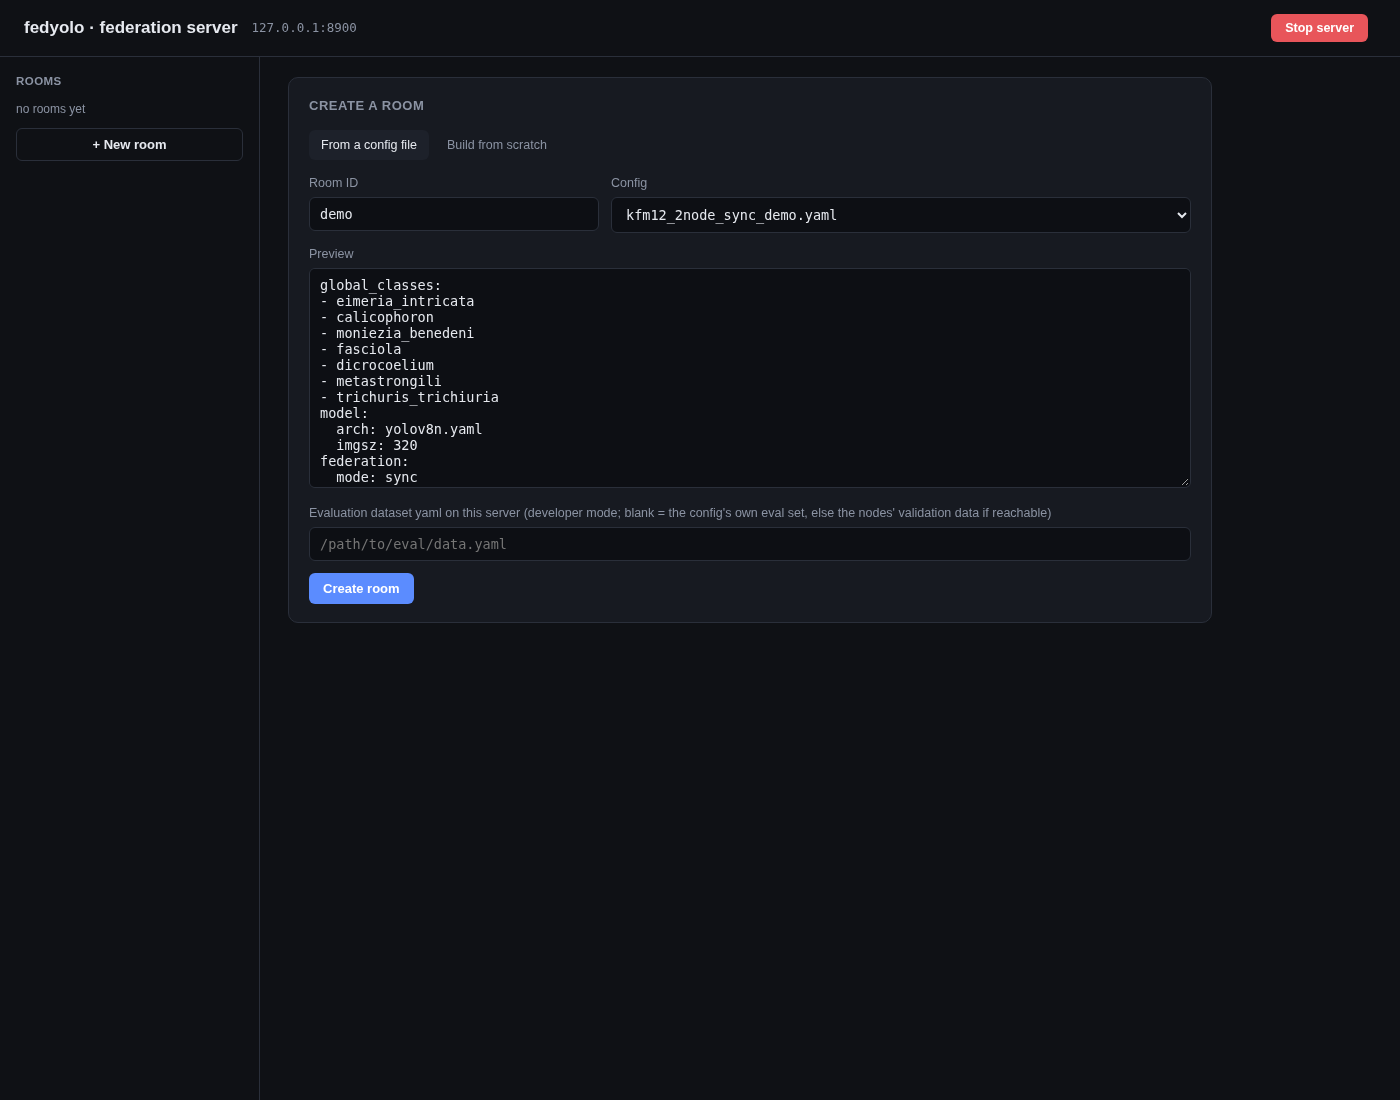
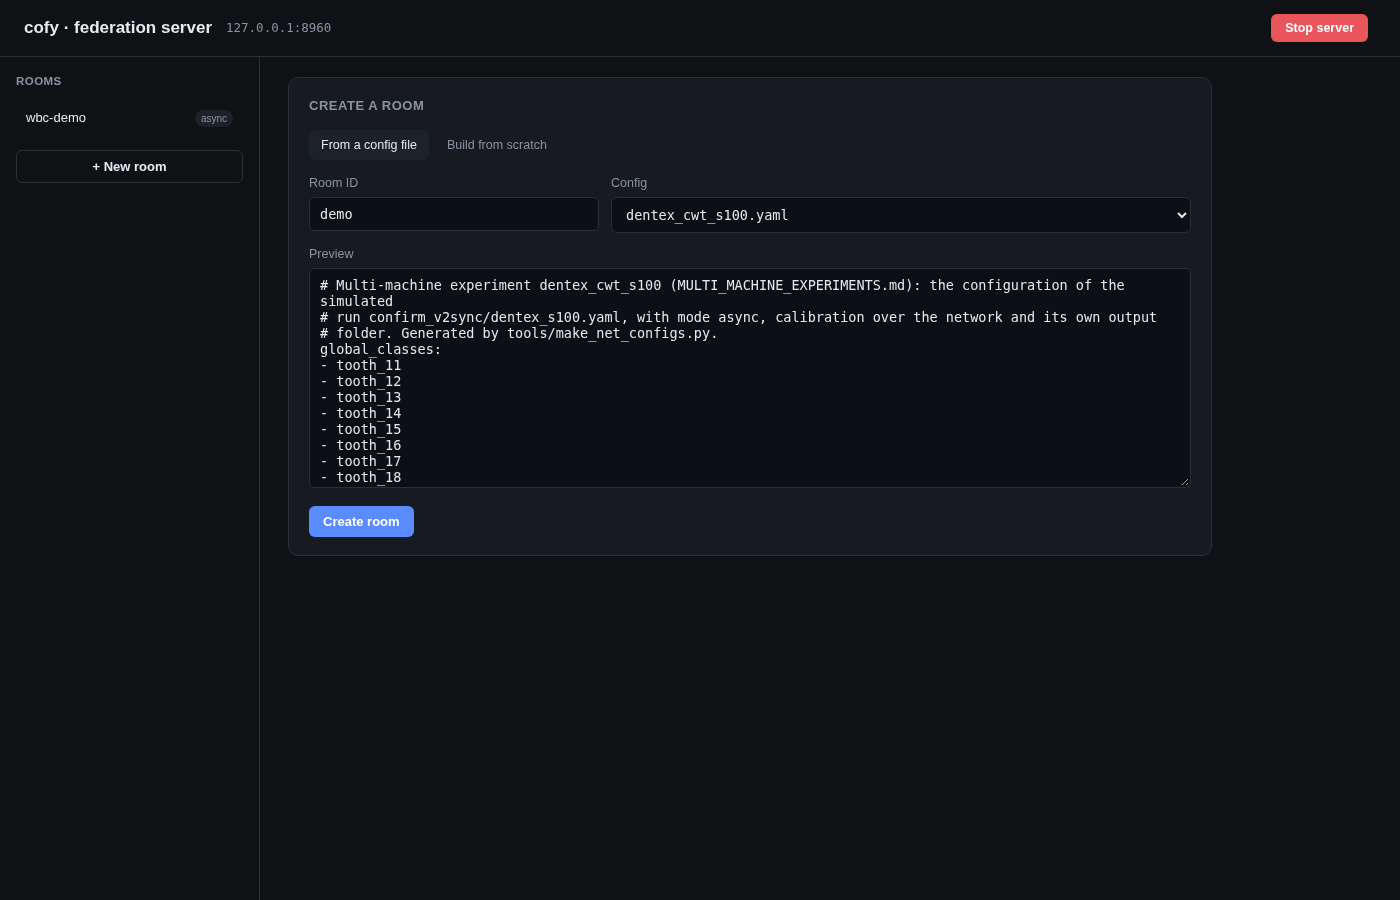
Readme Update

diff --git a/cofy_system/tools/make_resilience_figure.py b/cofy_system/tools/make_resilience_figure.py
@@ -1,0 +1,121 @@
+#!/usr/bin/env python3
+"""Figure for the README (docs/img/resisted_attacks.png): attacks on a WBC evaluation image, with the
+ground truth, the federation under attack and the same federation with the defence that resisted it.
+Only attacks that a defence resisted on this image are shown. The sign flip is not: peer validation (P3)
+rolls back the attacker's class, but the frozen rows fire again as the shared layers change, and on this
+image the class still fills the detection budget.
+Kept final models of the robustness study and its candidate defences; seed 0 (attacker node A, which
+owns neutrophil) unless stated:
+
+  BatchNorm poisoning  the concurrent seed that collapsed (seed 2, attacker node C), final model before
+                       calibration  vs  the BatchNorm step of the calibration with median pooling, the
+                       attacker also poisoning its statistics (P1; detections from attacks_cache.json);
+  backdoor             the backdoored federation (rb_seq_backdoor_ora) on the image with the trigger  vs
+                       the same detections after input screening at node B (P2, Detector Cleanse, the
+                       study's stored threshold for this model and seed): flagged detections are removed.
+
+The image is the one of the paper's attack figure (tools/make_attack_figure.py). CPU is enough.
+
+    CUDA_VISIBLE_DEVICES= python tools/make_resilience_figure.py
+"""
+import json, random, sys
+from pathlib import Path
+
+ROOT = Path(__file__).resolve().parent.parent
+sys.path.insert(0, str(ROOT)); sys.path.insert(0, str(ROOT / "tools"))
+OUT = ROOT / "docs/img/resisted_attacks.png"
+GREEN = "#2e8b57"
+
+
+def main():
+    import matplotlib
+    matplotlib.use("Agg")
+    import matplotlib.pyplot as plt
+    from matplotlib.patches import Rectangle
+    from PIL import Image
+    import torch
+    import make_attack_figure as maf
+    import defence_eval as de
+
+    torch.set_num_threads(6)
+    cache = json.loads(maf.CACHE.read_text())
+    classes = cache["classes"]
+    ev_img = ROOT / "data/study/wbc/_eval/images/val" / cache["eval"]
+    trig_img = ROOT / "data/attack/wbc/_eval_trigger_node_A/images" / cache["eval"]
+    gt = cache["gt"]
+    own_A = set(cache["own_A"])
+
+
+    # P2 screening at node B on the backdoored model's detections, as tools/defence_eval.py does it
+    bd = maf.Model("rb_seq_backdoor_ora", 0)
+    det_bd = bd.detect(trig_img)
+    stored = json.loads((ROOT / "runs/variants/p2_cleanse/wbc/s0/summary.json").read_text())["cleanse"]["rb_seq_backdoor_ora"]
+    scr = next(n for n in bd.cfg.nodes if n.name == stored["screening_node"])
+    scr_own = {classes.index(c) for c in scr.owned_classes}
+    rng = random.Random(1000 + 0)
+    sc = de.Screen(bd.model, bd.cfg.nc, de._crops(scr, de.N_FEAT, rng), bd.dev)
+    img, r, left, top = de._letterbox(trig_img, bd.cfg.model.imgsz)
+    screened = []
+    for c, cf, x1, y1, x2, y2 in det_bd:
+        box = [x1 * r + left, y1 * r + top, x2 * r + left, y2 * r + top]
+        h = None if c in scr_own else sc.entropy(img, torch.tensor(box))
+        screened.append((c, cf, x1, y1, x2, y2, h is not None and h < stored["threshold"], h))
+    bd.release()
+
+    plt.rcParams.update({"font.family": "DejaVu Sans", "font.size": 7, "axes.linewidth": 0})
+    rows = [
+        ("BatchNorm poisoning: node C corrupts the statistics", ev_img,
+         ("final model before calibration", cache["det"]["bnpoison"], set(cache["own_bn"])),
+         ("+ calibration, median of the nodes'\nstatistics (node C poisons its own)", cache["det"]["recalibrated"], set(cache["own_bn"]))),
+        ("Backdoor: node A labels a trigger as neutrophil", trig_img,
+         ("backdoored federation", det_bd, own_A),
+         ("+ input screening at node B:\nflagged detections removed", [d[:6] for d in screened if not d[6]], own_A)),
+    ]
+    fig, axes = plt.subplots(2, 3, figsize=(6.6, 5.0))
+    fig.subplots_adjust(left=0.01, right=0.99, top=0.92, bottom=0.09, wspace=0.04, hspace=0.38)
+    win = maf.crop_window(ev_img, [])
+
+    def show(ax, path, title):
+        ax.imshow(Image.open(path).convert("RGB"))
+        x0, y0, s = win
+        ax.set_xlim(x0, x0 + s); ax.set_ylim(y0 + s, y0)
+        ax.set_xticks([]); ax.set_yticks([])
+        ax.set_title(title, fontsize=7, loc="left", pad=3, color=maf.INK)
+
+    def draw(ax, ds, own):
+        labelled = []
+        for c, cf, *b in sorted(ds, key=lambda d: -d[1]):
+            col = maf.RED if c in own else maf.BLUE
+            big = len(ds) <= 20
+            ax.add_patch(Rectangle((b[0], b[1]), b[2] - b[0], b[3] - b[1], fill=False, ec=col, lw=1.4 if big else 0.5))
+            if big and not any(maf.iou(b, o) > 0.5 for o in labelled):
+                labelled.append(b)
+                ax.text((b[0] + b[2]) / 2, b[1] - 3, f"{classes[c]} {cf:.2f}", fontsize=6, ha="center", va="bottom", color=maf.INK,
+                        bbox=dict(boxstyle="round,pad=0.15", fc="white", ec=col, lw=0.6, alpha=0.9))
+        if not ds:
+            ax.text(0.5, 0.05, "no detection", transform=ax.transAxes, ha="center", fontsize=6.5,
+                    bbox=dict(boxstyle="round,pad=0.2", fc="white", ec="none", alpha=0.9))
+
+    for i, (name, img_path, (t1, d1, o1), (t2, d2, o2)) in enumerate(rows):
+        ax = axes[i, 0]; show(ax, img_path, "ground truth")
+        for c, *b in gt:
+            ax.add_patch(Rectangle((b[0], b[1]), b[2] - b[0], b[3] - b[1], fill=False, ec=GREEN, lw=1.4, ls=(0, (3, 2))))
+            ax.text((b[0] + b[2]) / 2, b[1] - 3, classes[c], fontsize=6, ha="center", va="bottom", color=maf.INK,
+                    bbox=dict(boxstyle="round,pad=0.15", fc="white", ec=GREEN, lw=0.6, alpha=0.9))
+        ax = axes[i, 1]; show(ax, img_path, t1); draw(ax, d1, o1)
+        ax = axes[i, 2]; show(ax, img_path, t2); draw(ax, d2, o2)
+        fig.text(0.01, axes[i, 0].get_position().y1 + 0.06, name, fontsize=8, fontweight="bold", color=maf.INK)
+    from matplotlib.lines import Line2D
+    fig.legend(handles=[Line2D([], [], color=GREEN, lw=1.4, ls=(0, (3, 2)), label="ground truth"),
+                        Line2D([], [], color=maf.RED, lw=1.4, label="attacker's class(es)"),
+                        Line2D([], [], color=maf.BLUE, lw=1.4, label="other classes")],
+               loc="lower center", ncol=3, frameon=False, fontsize=7, bbox_to_anchor=(0.5, 0.0))
+    OUT.parent.mkdir(parents=True, exist_ok=True)
+    fig.savefig(OUT, dpi=170)
+    print(json.dumps({"backdoor_detections": len(det_bd),
+                      "screening": [(classes[d[0]], round(d[1], 2), None if d[7] is None else round(d[7], 4), d[6]) for d in screened],
+                      "threshold": stored["threshold"]}, indent=1))
+
+
+if __name__ == "__main__":
+    main()

diff --git a/cofy_system/paper/main.tex b/cofy_system/paper/main.tex
@@ -165,35 +165,7 @@ where $\Delta$ is the node's change from the model it pulled~\cite{xie2019fedasy
 
 \begin{figure}[t]
 \centering
-\begin{tikzpicture}[x=0.92cm,y=0.36cm,font=\scriptsize]
-  \definecolor{nA}{RGB}{120,160,220}\definecolor{nB}{RGB}{240,170,90}
-  \definecolor{nC}{RGB}{120,190,120}\definecolor{nD}{RGB}{185,140,200}
-  \newcommand{\job}[4]{\fill[#4] (#1,#3-0.38) rectangle (#2,#3+0.38); \draw[black!60] (#1,#3-0.38) rectangle (#2,#3+0.38);}
-  \newcommand{\lanes}[1]{\foreach \n/\y in {A/3,B/2,C/1,D/0} {\node[anchor=east] at (-0.1,#1+\y) {node \n};}}
-  % (a) parallel synchronous: lanes 14-17
-  \node[anchor=west,font=\small\bfseries] at (-1.6,19.0) {(a) FedAvg: parallel synchronous};
-  \lanes{14}
-  \foreach \s in {0,1.55} {
-    \job{\s}{\s+1.2}{17}{nA}\job{\s}{\s+1.0}{16}{nB}\job{\s}{\s+0.8}{15}{nC}\job{\s}{\s+1.4}{14}{nD}
-    \draw[dashed,thick] (\s+1.45,13.4) -- (\s+1.45,17.6);
-  }
-  \node[anchor=west] at (3.3,15.5) {barrier: every round waits for the slowest node};
-  % (b) sequential synchronous: lanes 6-9, cycle labels in their own row above the lanes
-  \node[anchor=west,font=\small\bfseries] at (-1.6,12.0) {(b) CWT: sequential, server-scheduled turns};
-  \lanes{6}
-  \job{0}{1.0}{8}{nB}\job{1.0}{2.2}{9}{nA}\job{2.2}{3.6}{6}{nD}\job{3.6}{4.4}{7}{nC}
-  \job{4.4}{5.6}{9}{nA}\job{5.6}{6.4}{7}{nC}\job{6.4}{7.4}{8}{nB}\job{7.4}{8.8}{6}{nD}
-  \draw[dashed,thick] (4.4,5.4) -- (4.4,10.3);
-  \node[anchor=west] at (0,10.3) {cycle 1}; \node[anchor=west] at (4.5,10.3) {cycle 2};
-  % (c) concurrent asynchronous: lanes 0-3
-  \node[anchor=west,font=\small\bfseries] at (-1.6,4.45) {(c) FedAsync: concurrent, merged on arrival};
-  \lanes{0}
-  \job{0}{1.2}{3}{nA}\job{1.2}{2.4}{3}{nA}\job{0}{1.0}{2}{nB}\job{1.0}{2.0}{2}{nB}
-  \job{0}{0.8}{1}{nC}\job{0.8}{1.6}{1}{nC}\job{0}{1.4}{0}{nD}\job{1.4}{2.8}{0}{nD}
-  \draw[black!50] (0,-1.1) -- (2.9,-1.1); \foreach \t in {0.8,1.0,1.2,1.4,1.6,2.0,2.4,2.8} {\fill (\t,-1.1) circle[radius=1.6pt];}
-  \node[anchor=west] at (3.3,-1.1) {server: one merge per arrival};
-  \draw[->] (0,-2.5) -- (9,-2.5) node[anchor=west] {time};
-\end{tikzpicture}
+\input{figures/schemes.tex}
 \caption{The three schemes with four nodes of different speeds, two cycles each. In (a), nodes train in parallel and the server averages after a barrier. In (b), one node trains at a time, starting from the previous node's model, in a new random order every cycle. In (c), nodes train concurrently and each update is merged on arrival. Every scheme trains the same number of node-epochs. CWT needs about three times the wall-clock time (Section~\ref{sec:res-fair}).}\label{fig:schemes}
 \end{figure}
 

diff --git a/cofy_system/paper/figures/schemes.tex b/cofy_system/paper/figures/schemes.tex
@@ -1,0 +1,30 @@
+% The three aggregation schemes (included by main.tex, Figure fig:schemes).
+\begin{tikzpicture}[x=0.92cm,y=0.36cm,font=\scriptsize]
+  \definecolor{nA}{RGB}{120,160,220}\definecolor{nB}{RGB}{240,170,90}
+  \definecolor{nC}{RGB}{120,190,120}\definecolor{nD}{RGB}{185,140,200}
+  \newcommand{\job}[4]{\fill[#4] (#1,#3-0.38) rectangle (#2,#3+0.38); \draw[black!60] (#1,#3-0.38) rectangle (#2,#3+0.38);}
+  \newcommand{\lanes}[1]{\foreach \n/\y in {A/3,B/2,C/1,D/0} {\node[anchor=east] at (-0.1,#1+\y) {node \n};}}
+  % (a) parallel synchronous: lanes 14-17
+  \node[anchor=west,font=\small\bfseries] at (-1.6,19.0) {(a) FedAvg: parallel synchronous};
+  \lanes{14}
+  \foreach \s in {0,1.55} {
+    \job{\s}{\s+1.2}{17}{nA}\job{\s}{\s+1.0}{16}{nB}\job{\s}{\s+0.8}{15}{nC}\job{\s}{\s+1.4}{14}{nD}
+    \draw[dashed,thick] (\s+1.45,13.4) -- (\s+1.45,17.6);
+  }
+  \node[anchor=west] at (3.3,15.5) {barrier: every round waits for the slowest node};
+  % (b) sequential synchronous: lanes 6-9, cycle labels in their own row above the lanes
+  \node[anchor=west,font=\small\bfseries] at (-1.6,12.0) {(b) CWT: sequential, server-scheduled turns};
+  \lanes{6}
+  \job{0}{1.0}{8}{nB}\job{1.0}{2.2}{9}{nA}\job{2.2}{3.6}{6}{nD}\job{3.6}{4.4}{7}{nC}
+  \job{4.4}{5.6}{9}{nA}\job{5.6}{6.4}{7}{nC}\job{6.4}{7.4}{8}{nB}\job{7.4}{8.8}{6}{nD}
+  \draw[dashed,thick] (4.4,5.4) -- (4.4,10.3);
+  \node[anchor=west] at (0,10.3) {cycle 1}; \node[anchor=west] at (4.5,10.3) {cycle 2};
+  % (c) concurrent asynchronous: lanes 0-3
+  \node[anchor=west,font=\small\bfseries] at (-1.6,4.45) {(c) FedAsync: concurrent, merged on arrival};
+  \lanes{0}
+  \job{0}{1.2}{3}{nA}\job{1.2}{2.4}{3}{nA}\job{0}{1.0}{2}{nB}\job{1.0}{2.0}{2}{nB}
+  \job{0}{0.8}{1}{nC}\job{0.8}{1.6}{1}{nC}\job{0}{1.4}{0}{nD}\job{1.4}{2.8}{0}{nD}
+  \draw[black!50] (0,-1.1) -- (2.9,-1.1); \foreach \t in {0.8,1.0,1.2,1.4,1.6,2.0,2.4,2.8} {\fill (\t,-1.1) circle[radius=1.6pt];}
+  \node[anchor=west] at (3.3,-1.1) {server: one merge per arrival};
+  \draw[->] (0,-2.5) -- (9,-2.5) node[anchor=west] {time};
+\end{tikzpicture}

diff --git a/README.md b/README.md
@@ -11,15 +11,35 @@ and Analysis of Reliability and Robustness* (source in [`cofy_system/paper/`](co
 
 **Try it on one machine:** `cd cofy_system && python demo/run_demo.py --use-case wbc --scheme sequential`
 runs a real four-node federation over HTTP with small samples of the three use cases.
-Online: [![Open in Colab](https://colab.research.google.com/assets/colab-badge.svg)](https://colab.research.google.com/github/SalvatoreCapuozzo/DAFYOLO/blob/master/cofy_system/demo/COFY_demo.ipynb)
-[![Open in GitHub Codespaces](https://github.com/codespaces/badge.svg)](https://codespaces.new/SalvatoreCapuozzo/DAFYOLO)
+Online: [![Open in Colab](https://colab.research.google.com/assets/colab-badge.svg)](https://colab.research.google.com/github/SalvatoreCapuozzo/COFY/blob/master/cofy_system/demo/COFY_demo.ipynb)
 
+- [How it works](#how-it-works)
 - [Repository layout](#repository-layout)
 - [1. Install (every machine)](#1-install-every-machine)
 - [2. Data](#2-data)
 - [3. Federation over a local network: server and clients](#3-federation-over-a-local-network-server-and-clients)
 - [4. Reproducing the study on one machine](#4-reproducing-the-study-on-one-machine)
+- [5. Robustness: attacks and defences](#5-robustness-attacks-and-defences)
 - [Licence](#licence)
+
+## How it works
+
+![COFY: the model's shared parameters and class rows, and the federation with its steps 1-7](cofy_system/docs/img/architecture.png)
+
+Every parameter of the detector is shared and merged from every node, except the **class rows**: the row
+of each class in the last convolution of the classification branch, which only the class's owner changes.
+Each node downloads the global model (1), trains on its own images with a loss that ignores the classes it
+does not own (2) and uploads its change (3); the server takes each class's rows only from its owner (4),
+bounds each part of the update (5) and merges it (6). After the last update, a calibration re-aligns
+BatchNorm statistics and class rows (7). The server holds no data. The three ways to merge:
+
+![FedAvg, CWT and FedAsync on four nodes of different speeds](cofy_system/docs/img/schemes.png)
+
+The three use cases cover the ways classes can share an image: never (WBC, one cell per image), sometimes
+(KFM12, a few parasite eggs) and always (DENTEX, every tooth is a class); every object is coloured by the
+node that owns its class:
+
+![One image of each use case, objects coloured by their owner node](cofy_system/paper/figures/usecases.png)
 
 ## Repository layout
 
@@ -36,7 +56,7 @@ cofy_system/                 the system and the study (run every command from he
   _frozen/confirm/           frozen code of the confirmatory study (never edit; hashed)
   data/, runs/               local data and outputs (not in git)
 MULTI_MACHINE_EXPERIMENTS.md the experiments to run on several machines, step by step
-legacy/                      the earlier DAFYOLO prototype, reports and its data (not used by COFY)
+legacy/                      the earlier prototype, reports and its data (not used by COFY)
 ```
 
 ## 1. Install (every machine)
@@ -46,8 +66,8 @@ automatically (`federation.device: auto`: CUDA, then MPS, then CPU). The study i
 
 ```bash
 git clone <repository URL> cofy && cd cofy/cofy_system
-conda create -n dafyolo python=3.10 -y && conda activate dafyolo
-conda env config vars set PYTHONNOUSERSITE=1 -n dafyolo && conda activate dafyolo   # ignore ~/.local packages
+conda create -n cofy python=3.10 -y && conda activate cofy
+conda env config vars set PYTHONNOUSERSITE=1 -n cofy && conda activate cofy   # ignore ~/.local packages
 # PyTorch: on Linux the CUDA build for your driver (https://pytorch.org/get-started), e.g.
 pip install torch torchvision --index-url https://download.pytorch.org/whl/cu121
 # on macOS the default build, which includes MPS:  pip install torch torchvision
@@ -102,7 +122,7 @@ Full guide, with screenshots, security and troubleshooting:
 **Server** (e.g. machine M1; its address from `hostname -I` on Linux or `ipconfig getifaddr en0` on macOS, say `192.168.1.10`):
 
 ```bash
-cd cofy_system && conda activate dafyolo
+cd cofy_system && conda activate cofy
 sudo ufw allow 8900/tcp      # Linux, only if ufw is active; macOS: allow incoming connections for Python when asked
 python tools/launch_detached.py runs/net_server.log -- \
     python -m cofy.net.server_app --port 8900 --config-dir configs/net
@@ -114,10 +134,14 @@ give the room an id and **Create room**; send the server URL, the room id and th
 node operators. Add `--developer-mode` to let the server evaluate the model (it then reads the
 evaluation set on M1; for experiments only).
 
+| Server: create a room from a config | Server: the room, its password and its nodes |
+|---|---|
+| ![Server dashboard, create a room](cofy_system/docs/img/net_01_server_create_room.png) | ![Room waiting to start, node B joined](cofy_system/docs/img/net_03_server_room_ready.png) |
+
 **Client**, one per node, on the machine that holds the node's folder:
 
 ```bash
-cd cofy_system && conda activate dafyolo
+cd cofy_system && conda activate cofy
 python tools/launch_detached.py runs/client_node_B.log -- python -m cofy.net.client_app --port 8901
 ```
 
@@ -127,6 +151,13 @@ fill in server URL `http://192.168.1.10:8900`, room id and password, **Reclaim n
 **Join & prepare**. A second node on the same machine uses another port (`--port 8902`). When every node
 has joined, the server operator presses **Start federation** and each node **Start training**; nodes then
 train, upload and wait on their own, and run the calibration at the end.
+
+| Client: join a room as a node | Server: a room during training |
+|---|---|
+| ![Client page after joining as node B](cofy_system/docs/img/net_02_client_join.png) | ![Room during training, with its checkpoints](cofy_system/docs/img/net_04_server_room_training.png) |
+
+The training view is from an earlier version of the dashboard, under the system's former name; the layout
+is the same.
 
 All machines must be on the same network (Wi-Fi works: one model download and one upload of about
 100 MB per node and update) and must not go to sleep during a run. HTTPS: section 9 of the guide.
@@ -145,6 +176,29 @@ python -m cofy.simulate --config configs/variants/confirm_v2sync/wbc_s100.yaml -
 Pre-registration, amendments and manifests: `cofy_system/analysis/CONFIRMATORY_PREREG.md`; check that the
 frozen confirmatory code is unchanged with `python tools/confirm_manifest.py --check`. More on the
 package, configuration keys and architectures: [`cofy_system/README.md`](cofy_system/README.md).
+
+## 5. Robustness: attacks and defences
+
+One node of four is the attacker. Its data attacks and what the attacked models detect (robustness
+study, WBC):
+
+![Attacks on images of the three use cases and the outputs of attacked WBC models](cofy_system/paper/figures/attacks.png)
+
+Two attacks that a defence resisted, on a WBC evaluation image: ground truth, the attacked federation, and
+the federation with the defence (`tools/make_resilience_figure.py`):
+
+![Ground truth, attacked and defended outputs for BatchNorm poisoning and a backdoor](cofy_system/docs/img/resisted_attacks.png)
+
+What the defences do (details and numbers: Section 5.4 of the article):
+- **Neutralized** by ownership-aware robust aggregation: boosted updates, inflated image counts and nodes
+  claiming other nodes' classes.
+- **Undone by the calibration**: BatchNorm poisoning; pooling the statistics by their median also holds when
+  the attacker poisons the calibration itself (top row).
+- **Not stopped in training**: a backdoor in the attacker's own class succeeds on every triggered image;
+  screening inputs at the nodes removed it in 15 of 18 runs, at a cost in false alarms (bottom row).
+- **Not stopped**: a node that reverses its updates collapses every scheme; a per-class detection budget
+  confines the damage to its own classes. Peer validation with per-class rollback (in progress) rolls the
+  attacker's class back, but the frozen class still fires as the shared layers move on.
 
 ## Licence
 
